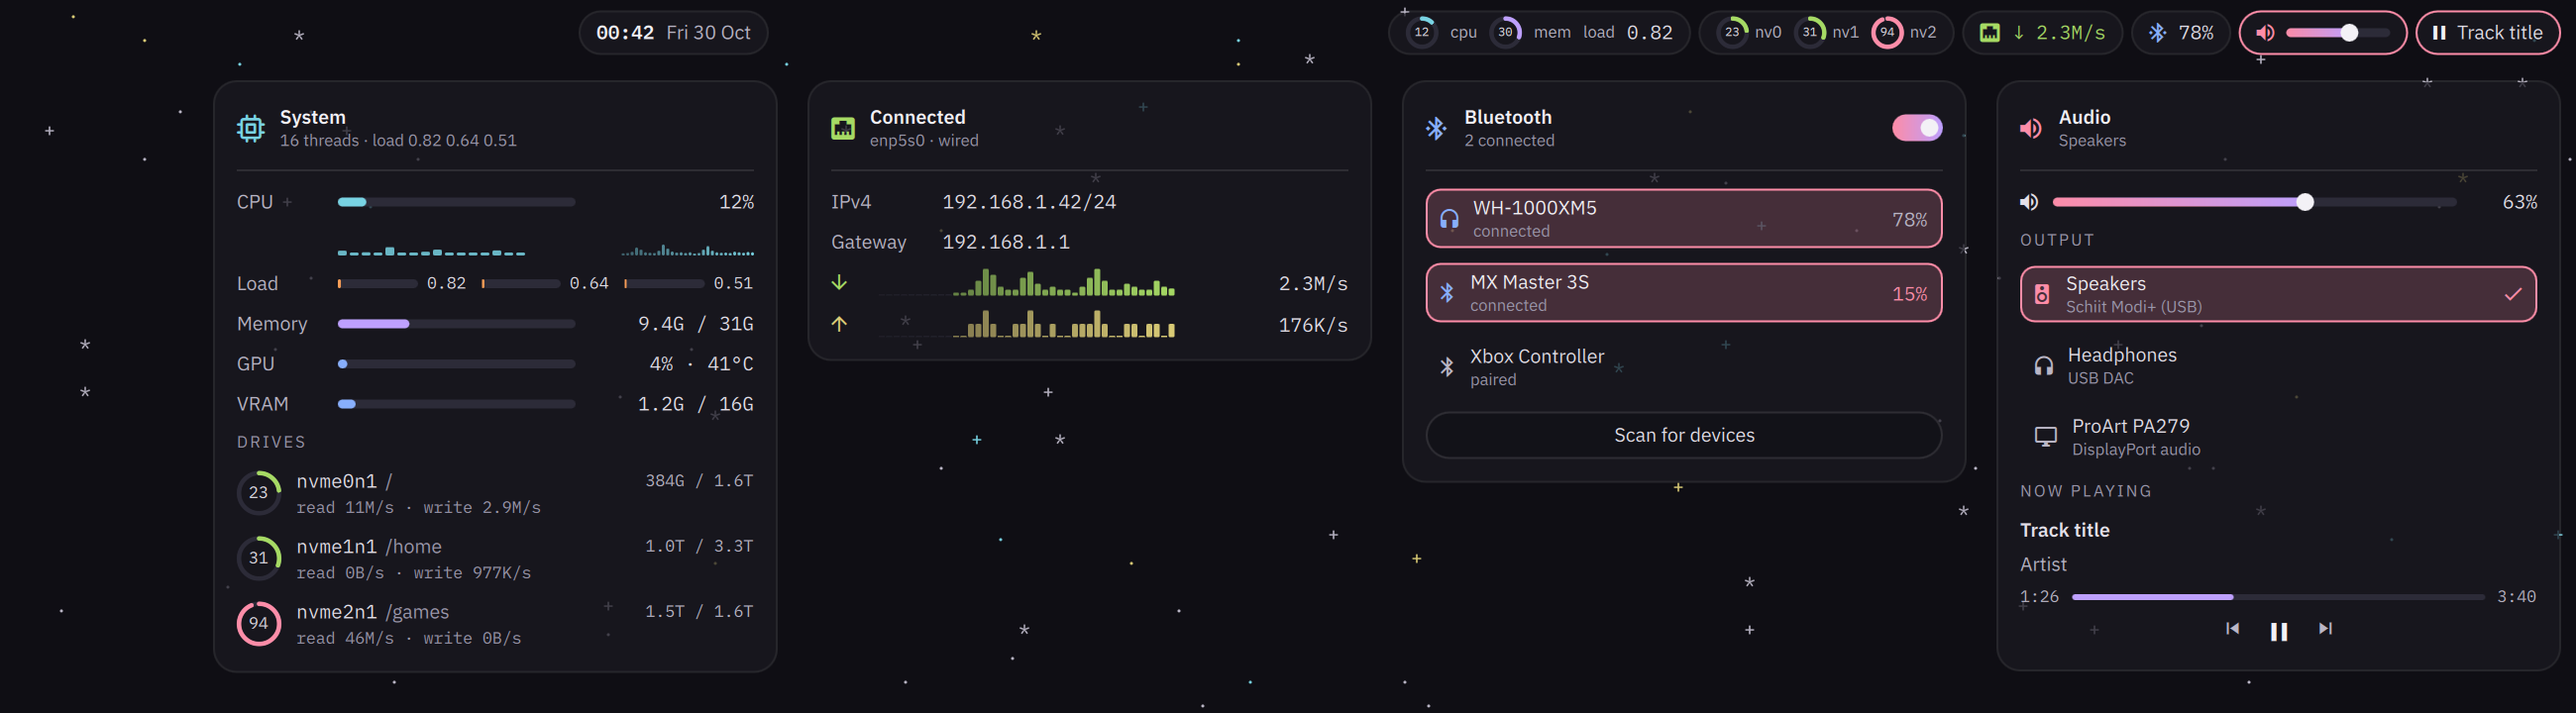
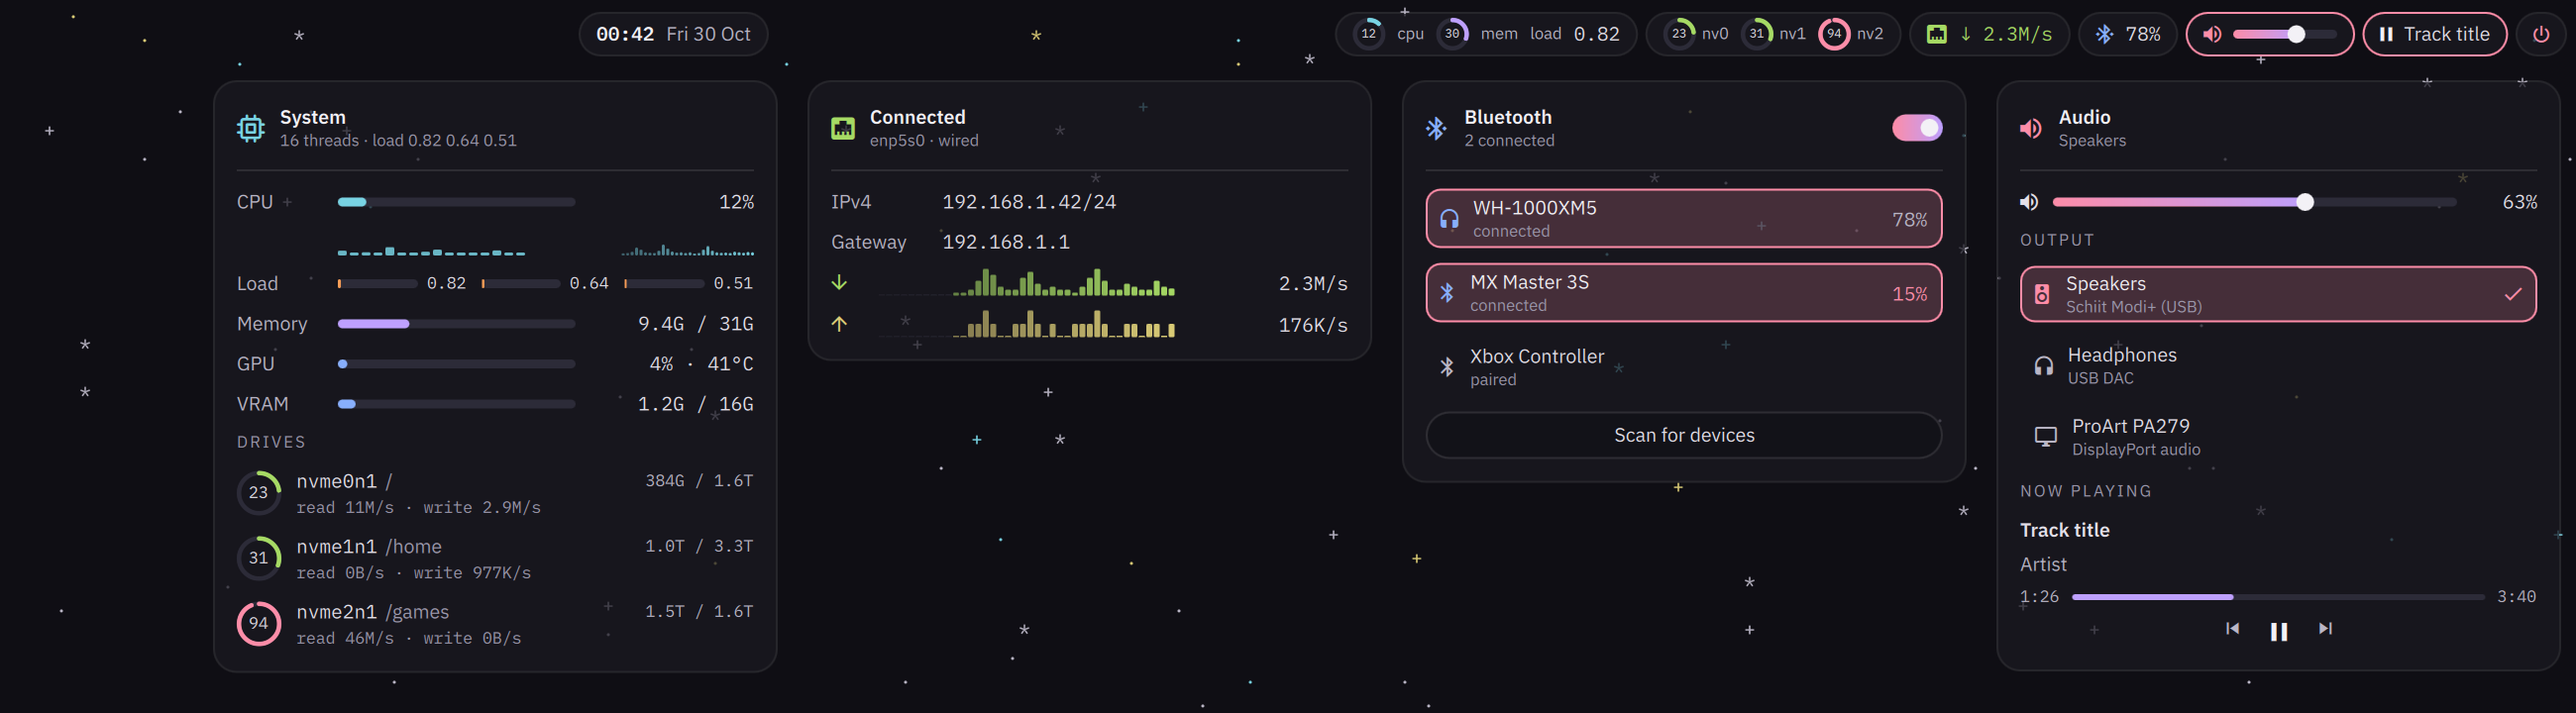
bar: power button, wallpaper modes and cost controls
- Power pill at the right end of every bar opens the session menu.
- Wallpaper: animated / still / image modes and layout, fps, and
  animate-with-windows read live from ~/.config/rice/settings.json.
- A monitor animates only while its workspace is empty (default), never
  under fullscreen or while locked (IPC: qs ipc call sky pause|resume);
  frozen monitors keep their last frame and cost nothing. Default 4 fps.
- Bar margins follow Hyprland gaps_out (Theme.screenGap).
- Test stubs for Quickshell.Io FileView/JsonAdapter and the Quickshell global.

Claude-Session: https://claude.ai/code/session_011NgRDh4eJdjWHAX74BiGdT

Changed region(s): [[0.5296, 0.0, 0.9969, 0.0917], [0.2181, 0.0306, 0.3115, 0.0611]]

diff --git a/config/quickshell/sky/Wallpaper.qml b/config/quickshell/sky/Wallpaper.qml
@@ -1,5 +1,12 @@
-// The ASCII sky as a wallpaper: one layer-shell window per screen on the Background layer.
-// Pauses (stops re-rendering) while that monitor's workspace has a fullscreen window.
+// The wallpaper: one layer-shell window per screen on the Background layer, showing the ASCII
+// sky (animated or still) or a picture, per Config.skyMode.
+//
+// Cost control. A frame is only rendered when something changes, so a monitor whose sky is not
+// animating costs nothing after its last frame. A monitor animates only when all of these hold:
+//   - skyMode is "animated" and the sky is not paused over IPC (lock screen)
+//   - its active workspace has no fullscreen window (then the sky is hidden entirely)
+//   - its active workspace has no windows at all, unless skyAnimateWithWindows is set
+// Otherwise it keeps its last frame (frozen) while other monitors may keep animating.
 import QtQuick
 import Quickshell
 import Quickshell.Wayland
@@ -20,12 +27,27 @@ PanelWindow {
     color: Theme.crust
 
     readonly property var monitor: Hyprland.monitorFor(screen)
-    readonly property bool hidden: monitor && monitor.activeWorkspace ? monitor.activeWorkspace.hasFullscreen : false
+    readonly property var workspace: monitor ? monitor.activeWorkspace : null
+    readonly property bool hidden: workspace ? workspace.hasFullscreen : false
+    readonly property bool covered: workspace ? workspace.toplevels.values.length > 0 : false
+    readonly property bool animating: Config.skyMode === "animated" && !hidden
+                                      && (Config.skyAnimateWithWindows || !covered)
+
+    // Vote in SkyClock: its timer runs while any monitor animates.
+    property bool counted: false
+    function vote() {
+        if (animating === counted) return;
+        SkyClock.animating += animating ? 1 : -1;
+        counted = animating;
+    }
+    onAnimatingChanged: vote()
+    Component.onCompleted: vote()
+    Component.onDestruction: if (counted) SkyClock.animating -= 1
 
     // Canvas: this screen alone (mirror) or the bounding box of all screens (span).
     readonly property var screens: Quickshell.screens
     readonly property rect canvas: {
-        if (Config.skyMode !== "span") return Qt.rect(0, 0, screen.width, screen.height);
+        if (Config.skyLayout !== "span") return Qt.rect(0, 0, screen.width, screen.height);
         let x0 = Infinity, y0 = Infinity, x1 = -Infinity, y1 = -Infinity;
         for (const s of screens) {
             x0 = Math.min(x0, s.x); y0 = Math.min(y0, s.y);
@@ -33,35 +55,59 @@ PanelWindow {
         }
         return Qt.rect(x0, y0, x1 - x0, y1 - y0);
     }
-    readonly property bool span: Config.skyMode === "span" && screens.length > 1
+    readonly property bool span: Config.skyLayout === "span" && screens.length > 1
 
-    Component.onCompleted: SkyClock.views += 1
-    Component.onDestruction: { SkyClock.views -= 1; if (hidden) SkyClock.pausedViews -= 1; }
-    onHiddenChanged: SkyClock.pausedViews += hidden ? 1 : -1
-
-    AsciiSky {
+    Loader {
         anchors.fill: parent
         visible: !win.hidden
-        cellWidth: Config.cellWidth
-        cellHeight: Config.cellHeight
+        sourceComponent: Config.skyMode === "image" ? picture : ascii
+    }
 
-        offset: win.span ? Qt.point(win.screen.x - win.canvas.x, win.screen.y - win.canvas.y) : Qt.point(0, 0)
-        // Span: the Earth rises on the left part of the sky, the Moon's wide orbit crosses screens.
-        earthCenter: win.span ? Qt.point(win.canvas.width * 0.36, win.canvas.height)
-                              : Qt.point(width * 0.5, height)
-        earthRadius: win.canvas.height * 0.55
-        moonRadius: earthRadius * 0.27
-        moonOrbit: earthRadius * (win.span ? 2.4 : 1.6)
+    Component {
+        id: picture
+        Image {
+            source: Config.skyImage ? "file://" + Config.skyImage : ""
+            fillMode: Image.PreserveAspectCrop
+            asynchronous: true
+            // Decode at the output's pixel size, not the file's (a 8K photo would cost ~130 MB).
+            sourceSize: Qt.size(win.width * win.screen.devicePixelRatio, win.height * win.screen.devicePixelRatio)
+        }
+    }
 
-        earthAngle: SkyClock.earthAngle
-        cloudAngle: SkyClock.cloudAngle
-        moonAngle: SkyClock.moonAngle
-        twinkle: SkyClock.twinkle
+    Component {
+        id: ascii
+        AsciiSky {
+            id: sky
+            cellWidth: Config.cellWidth
+            cellHeight: Config.cellHeight
 
-        shaderDir: Quickshell.shellPath("sky/shaders")
-        landMask: Quickshell.shellPath("sky/land.png")
-        // Glyph atlas rendered at this screen's exact physical cell size (bin/rice-sky-atlas).
-        atlas: Quickshell.dataPath("sky-atlas-" + Math.round(Config.cellWidth * win.screen.devicePixelRatio)
-                                   + "x" + Math.round(Config.cellHeight * win.screen.devicePixelRatio) + ".png")
+            offset: win.span ? Qt.point(win.screen.x - win.canvas.x, win.screen.y - win.canvas.y) : Qt.point(0, 0)
+            // Span: the Earth rises on the left part of the sky, the Moon's wide orbit crosses screens.
+            earthCenter: win.span ? Qt.point(win.canvas.width * 0.36, win.canvas.height)
+                                  : Qt.point(width * 0.5, height)
+            earthRadius: win.canvas.height * 0.55
+            moonRadius: earthRadius * 0.27
+            moonOrbit: earthRadius * (win.span ? 2.4 : 1.6)
+
+            // Angles are copied, not bound: a frozen monitor must keep its last frame while
+            // SkyClock keeps ticking for the others.
+            function sync() {
+                earthAngle = SkyClock.earthAngle;
+                cloudAngle = SkyClock.cloudAngle;
+                moonAngle = SkyClock.moonAngle;
+                twinkle = SkyClock.twinkle;
+            }
+            Component.onCompleted: sync()
+            Connections {
+                target: SkyClock
+                function onTicked() { if (win.animating) sky.sync(); }
+            }
+
+            shaderDir: Quickshell.shellPath("sky/shaders")
+            landMask: Quickshell.shellPath("sky/land.png")
+            // Glyph atlas rendered at this screen's exact physical cell size (bin/rice-sky-atlas).
+            atlas: Quickshell.dataPath("sky-atlas-" + Math.round(Config.cellWidth * win.screen.devicePixelRatio)
+                                       + "x" + Math.round(Config.cellHeight * win.screen.devicePixelRatio) + ".png")
+        }
     }
 }

diff --git a/config/quickshell/common/Config.qml b/config/quickshell/common/Config.qml
@@ -1,15 +1,34 @@
 // Behavior settings for the shell (no colors: those are in the generated Theme.qml).
-// Edit here; Quickshell reloads on save.
+//
+// Per-user choices live in ~/.config/rice/settings.json. The installer writes that file once
+// from its questions and never overwrites it; edit it any time, the shell picks changes up live.
+// Missing keys fall back to the defaults below. Example:
+//   { "skyMode": "animated", "skyLayout": "mirror", "skyFps": 4,
+//     "skyAnimateWithWindows": false, "skyImage": "" }
 pragma Singleton
 import QtQuick
 import Quickshell
+import Quickshell.Io
 
 Singleton {
-    // ---- ASCII sky (wallpaper) ----
+    id: root
+
+    // ---- Wallpaper ----
+    // "animated": live ASCII Earth and Moon (GPU shaders, see docs/knowledge-base/bar.md)
+    // "still":    the same ASCII scene rendered once at startup, then never redrawn (zero cost)
+    // "image":    a picture of your choice (skyImage), e.g. a NASA photo of the Earth
+    readonly property string skyMode: ["animated", "still", "image"].includes(settings.skyMode) ? settings.skyMode : "animated"
     // "mirror": every monitor shows the whole scene, in sync.
     // "span":   one sky across all monitors; the Moon's orbit crosses between them.
-    readonly property string skyMode: "mirror"
-    readonly property real skyFps: 10            // the scene moves slowly; 5-15 is plenty
+    readonly property string skyLayout: settings.skyLayout === "span" ? "span" : "mirror"
+    // The Earth's equator moves ~1.7 character cells per second at 4K, so a few frames per second
+    // already show every step; higher rates mostly redraw identical characters.
+    readonly property real skyFps: Math.max(1, Math.min(30, settings.skyFps))
+    // false: animate only while this monitor's workspace has no windows (tiled windows cover the
+    // sky anyway; the frame freezes and costs nothing). true: animate behind windows too.
+    readonly property bool skyAnimateWithWindows: settings.skyAnimateWithWindows
+    readonly property string skyImage: settings.skyImage
+
     readonly property real cellWidth: 8          // logical px per character
     readonly property real cellHeight: 16
     // Periods in seconds. Kept as divisors of 86400 so the animation never jumps at midnight.
@@ -20,4 +39,20 @@ Singleton {
 
     // ---- Bar ----
     readonly property int workspacesPerMonitor: 5  // left monitor 1-5, right 6-10 (Twin layout)
+
+    FileView {
+        path: (Quickshell.env("XDG_CONFIG_HOME") || Quickshell.env("HOME") + "/.config") + "/rice/settings.json"
+        watchChanges: true
+        onFileChanged: reload()
+        printErrors: false                       // a missing file just means "all defaults"
+
+        adapter: JsonAdapter {
+            id: settings
+            property string skyMode: "animated"
+            property string skyLayout: "mirror"
+            property real skyFps: 4
+            property bool skyAnimateWithWindows: false
+            property string skyImage: ""
+        }
+    }
 }

diff --git a/config/quickshell/services/SkyClock.qml b/config/quickshell/services/SkyClock.qml
@@ -1,22 +1,28 @@
 // One clock for every monitor's sky, so all screens show the same instant.
 // Angles are computed in JavaScript doubles from wall-clock time and wrapped to [0, 2pi)
 // before they reach the GPU, so shader float precision never degrades.
+//
+// The timer runs only while at least one monitor is animating (Wallpaper.qml votes through
+// `animating`) and nothing has paused the sky over IPC:
+//   qs ipc call sky pause     (hypridle on_lock_cmd: nothing to see behind the lock screen)
+//   qs ipc call sky resume
 pragma Singleton
 import QtQuick
 import Quickshell
+import Quickshell.Io
 import qs.common
 
 Singleton {
     id: root
 
-    property bool running: true                 // Wallpaper windows vote via the pause count
-    property int pausedViews: 0
-    property int views: 0
+    property int animating: 0                   // monitors currently animating
+    property bool paused: false                 // set over IPC
 
     property real earthAngle: 0
     property real cloudAngle: 0
     property real moonAngle: 0
     property real twinkle: 0
+    signal ticked()
 
     function angle(t, period) { return 2 * Math.PI * ((t % period) / period); }
 
@@ -26,14 +32,21 @@ Singleton {
         cloudAngle = angle(t, Config.cloudPeriod);
         moonAngle = angle(t, Config.moonPeriod);
         twinkle = angle(t, Config.twinklePeriod);
+        ticked();
     }
 
-    // Stops entirely when every monitor's sky is hidden (fullscreen apps on all of them).
+    Component.onCompleted: tick()               // angles for "still" mode and the first frame
+
     Timer {
         interval: 1000 / Config.skyFps
         repeat: true
-        triggeredOnStart: true
-        running: root.running && root.pausedViews < root.views
+        running: Config.skyMode === "animated" && root.animating > 0 && !root.paused
         onTriggered: root.tick()
+    }
+
+    IpcHandler {
+        target: "sky"
+        function pause(): void { root.paused = true; }
+        function resume(): void { root.paused = false; }
     }
 }

diff --git a/config/quickshell/bar/Bar.qml b/config/quickshell/bar/Bar.qml
@@ -15,9 +15,11 @@ PanelWindow {
     WlrLayershell.layer: WlrLayer.Top
     WlrLayershell.namespace: "rice-bar"
     anchors { top: true; left: true; right: true }
-    margins { top: Theme.gap / 2; left: Theme.gap; right: Theme.gap }
+    // Same distance to the screen edge as windows (Hyprland gaps_out = Theme.screenGap); Hyprland
+    // adds gaps_out again below the reserved zone, so bar-to-window spacing matches too.
+    margins { top: Theme.screenGap; left: Theme.screenGap; right: Theme.screenGap }
     implicitHeight: Theme.barHeight
-    exclusiveZone: Theme.barHeight + Theme.gap / 2
+    exclusiveZone: Theme.barHeight + Theme.screenGap
     color: "transparent"
 
     readonly property var monitor: Hyprland.monitorFor(screen)
@@ -44,6 +46,8 @@ PanelWindow {
             return out;
         }
         onWorkspaceClicked: id => Hyprland.dispatch("hl.dsp.focus({ workspace = " + id + " })")
+        // Flight Deck session menu: lock, log out, suspend, reboot, shut down (bin/rice-menu).
+        onPowerRequested: { win.panel = ""; Quickshell.execDetached(["rice-menu", "session"]); }
         onPanelRequested: (name, anchor) => {
             win.panelAnchor = anchor;
             win.panel = win.panel === name ? "" : name;

diff --git a/config/quickshell/bar/BarContent.qml b/config/quickshell/bar/BarContent.qml
@@ -3,7 +3,7 @@
 //
 //   left:   workspaces · window title
 //   center: clock
-//   right:  CPU/memory/load · drives · network · Bluetooth · volume · media
+//   right:  CPU/memory/load · drives · network · Bluetooth · volume · media · power
 import QtQuick
 import qs.common
 import qs.services
@@ -18,6 +18,7 @@ Item {
     property date now: new Date()
     signal workspaceClicked(int id)
     signal panelRequested(string name, Item anchor)
+    signal powerRequested()
 
     implicitHeight: Theme.barHeight
 
@@ -144,6 +145,11 @@ Item {
             Glyph { text: Media.playing ? Icons.pause : Icons.play; color: Theme.bright; anchors.verticalCenter: parent.verticalCenter
                     TapHandler { onTapped: Media.playPause() } }
             Label { text: Media.title; width: Math.min(implicitWidth, 200); anchors.verticalCenter: parent.verticalCenter }
+        }
+        Pill {                                           // power: session menu (lock ... shut down)
+            id: powerPill
+            onClicked: root.powerRequested()
+            Glyph { text: Icons.power; color: Theme.red; anchors.verticalCenter: parent.verticalCenter }
         }
     }
 }

diff --git a/tests/quickshell/BarTest.qml b/tests/quickshell/BarTest.qml
@@ -7,12 +7,14 @@ Rectangle {
     id: root
     color: Theme.crust
     property url background
+    // Instantiates Config (JSON settings through the Quickshell.Io stubs) so it is load-tested too.
+    readonly property string settings: Config.skyMode + " " + Config.skyLayout + " " + Config.skyFps
 
     Image { anchors.fill: parent; source: root.background; fillMode: Image.PreserveAspectCrop }
 
     BarContent {
-        anchors { top: parent.top; left: parent.left; right: parent.right; topMargin: Theme.gap / 2
-                  leftMargin: Theme.gap; rightMargin: Theme.gap }
+        anchors { top: parent.top; left: parent.left; right: parent.right; topMargin: Theme.screenGap
+                  leftMargin: Theme.screenGap; rightMargin: Theme.screenGap }
         height: Theme.barHeight
         title: "kitty — ~/claude-RICE-hyprland"
         openPanel: "audio"

diff --git a/templates/quickshell/common/Theme.qml b/templates/quickshell/common/Theme.qml
@@ -52,7 +52,8 @@ Singleton {
 
     // Geometry (logical px)
     readonly property int barHeight: 34
-    readonly property int gap: 10               // matches Hyprland gaps_out
+    readonly property int gap: 10               // spacing between pills and inside panels
+    readonly property int screenGap: 6          // = Hyprland general.gaps_out (config/hypr/conf/look.lua)
     readonly property int pillPadding: 12
     readonly property int panelRadius: 16
     readonly property int panelWidth: 380

diff --git a/themes/quasar/quickshell/common/Theme.qml b/themes/quasar/quickshell/common/Theme.qml
@@ -53,7 +53,8 @@ Singleton {
 
     // Geometry (logical px)
     readonly property int barHeight: 34
-    readonly property int gap: 10               // matches Hyprland gaps_out
+    readonly property int gap: 10               // spacing between pills and inside panels
+    readonly property int screenGap: 6          // = Hyprland general.gaps_out (config/hypr/conf/look.lua)
     readonly property int pillPadding: 12
     readonly property int panelRadius: 16
     readonly property int panelWidth: 380

diff --git a/tests/quickshell/stubs/Quickshell/Io/FileView.qml b/tests/quickshell/stubs/Quickshell/Io/FileView.qml
@@ -1,0 +1,10 @@
+// Test stub: Quickshell.Io FileView. Never reads anything, so adapters keep their defaults.
+import QtQuick
+QtObject {
+    property string path
+    property bool watchChanges
+    property bool printErrors
+    default property QtObject adapter
+    signal fileChanged()
+    function reload() {}
+}

diff --git a/tests/quickshell/stubs/Quickshell/Singleton.qml b/tests/quickshell/stubs/Quickshell/Singleton.qml
@@ -1,3 +1,5 @@
-// Test stub: Quickshell's Singleton root type, as a plain QtObject.
+// Test stub: Quickshell's Singleton root type, as a plain QtObject that accepts children.
 import QtQuick
-QtObject {}
+QtObject {
+    default property list<QtObject> children
+}

diff --git a/tests/quickshell/stubs/Quickshell/Quickshell.qml b/tests/quickshell/stubs/Quickshell/Quickshell.qml
@@ -1,0 +1,7 @@
+// Test stub: the Quickshell global, only what config/quickshell/common uses.
+pragma Singleton
+import QtQuick
+QtObject {
+    function env(name) { return name === "HOME" ? "/nonexistent" : ""; }
+    function execDetached(command) {}
+}

diff --git a/tests/quickshell/stubs/Quickshell/Io/JsonAdapter.qml b/tests/quickshell/stubs/Quickshell/Io/JsonAdapter.qml
@@ -1,0 +1,3 @@
+// Test stub: Quickshell.Io JsonAdapter (properties keep their declared defaults).
+import QtQuick
+QtObject {}
